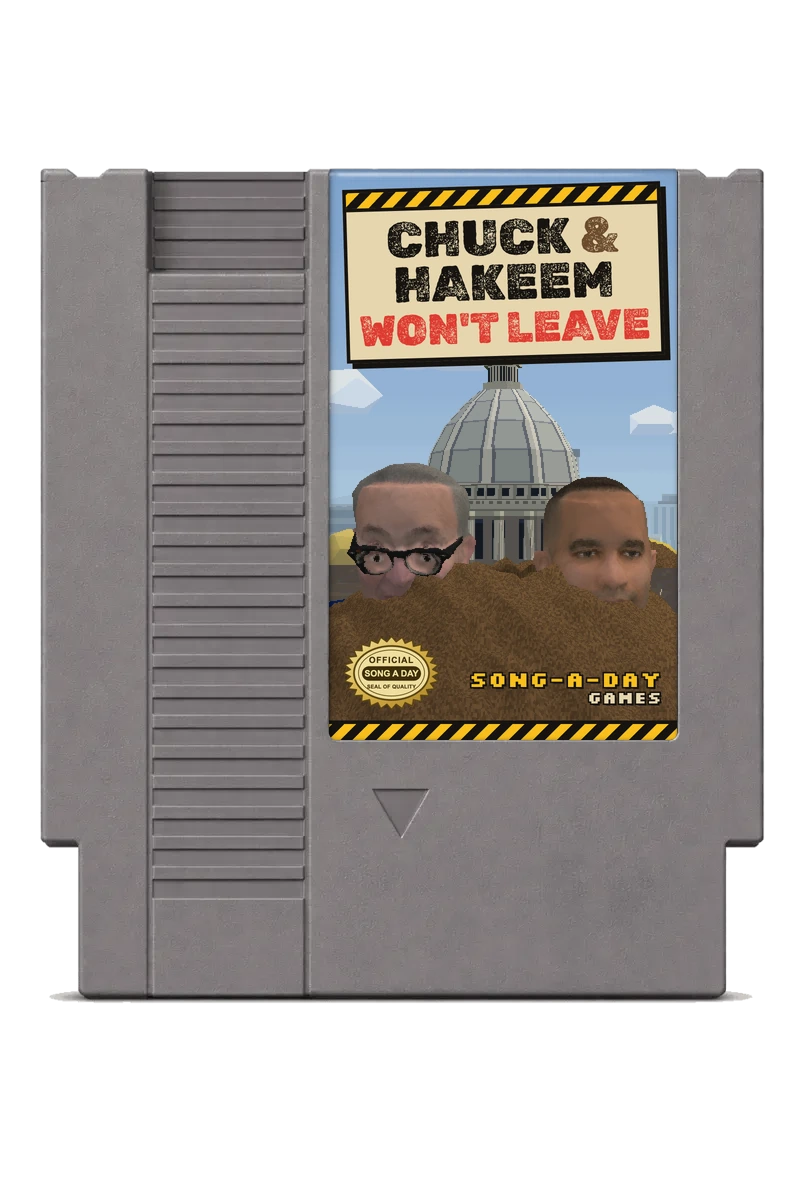
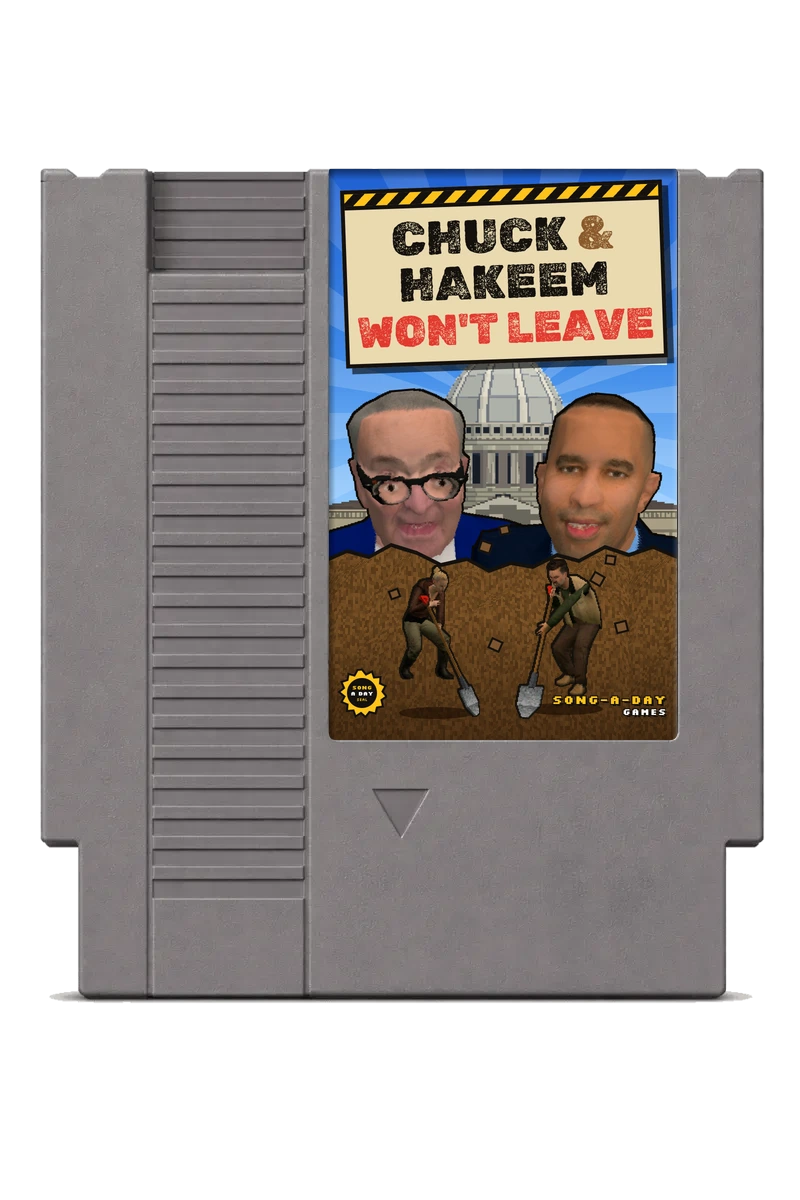
Redraw the Chuck & Hakeem cover as box art from game cut-outs

Changed region(s): [[0.4062, 0.1233, 0.8438, 0.6167]]

diff --git a/ASSETS.md b/ASSETS.md
@@ -16,7 +16,7 @@ Code is MIT; media retains separate terms. Jonathan Mann original media is CC BY
 
 ## Chuck & Hakeem Won't Leave, added 2026-11-12
 
-- `public/covers/leave.webp`: composited, with no image generation. The cartridge is the catalog's `sledding.webp`, its alpha untouched. The label is a picture taken in the game, with its two giant heads put side by side in one pile and the Capitol dome behind them for the cover, under the game's own title lettering (Rubik Dirt and Silkscreen, both SIL Open Font License 1.1) and hazard stripes. Exact 800x1200 RGBA. The heads are likenesses of Chuck Schumer and Hakeem Jeffries; the game is satire.
+- `public/covers/leave.webp`: composited, with no image generation. The cartridge is the catalog's `sledding.webp`, its alpha untouched. The label is assembled from cut-outs rendered from the game itself (its two giant heads, the Capitol, its dirt and two of its player characters with shovels), arranged as box art under the game's own title lettering (Rubik Dirt and Silkscreen, both SIL Open Font License 1.1) and hazard stripes. It is rebuilt by `tools/cover/` in the game project. Exact 800x1200 RGBA. The heads are likenesses of Chuck Schumer and Hakeem Jeffries; the game is satire.
 - `public/game-gifs/leave.gif`: the time-lapse shot recorded from the game for its launch video (`shots/v2/timelapse.mp4` in the game project), 1.5-6.5 seconds, 8 fps, 360x540, 64 colors. The launch video was not cut yet, so there was no trailer to take the loop from.
 - The game's source is not public. Its credits: https://mann.cool/leave/credits.txt
 
